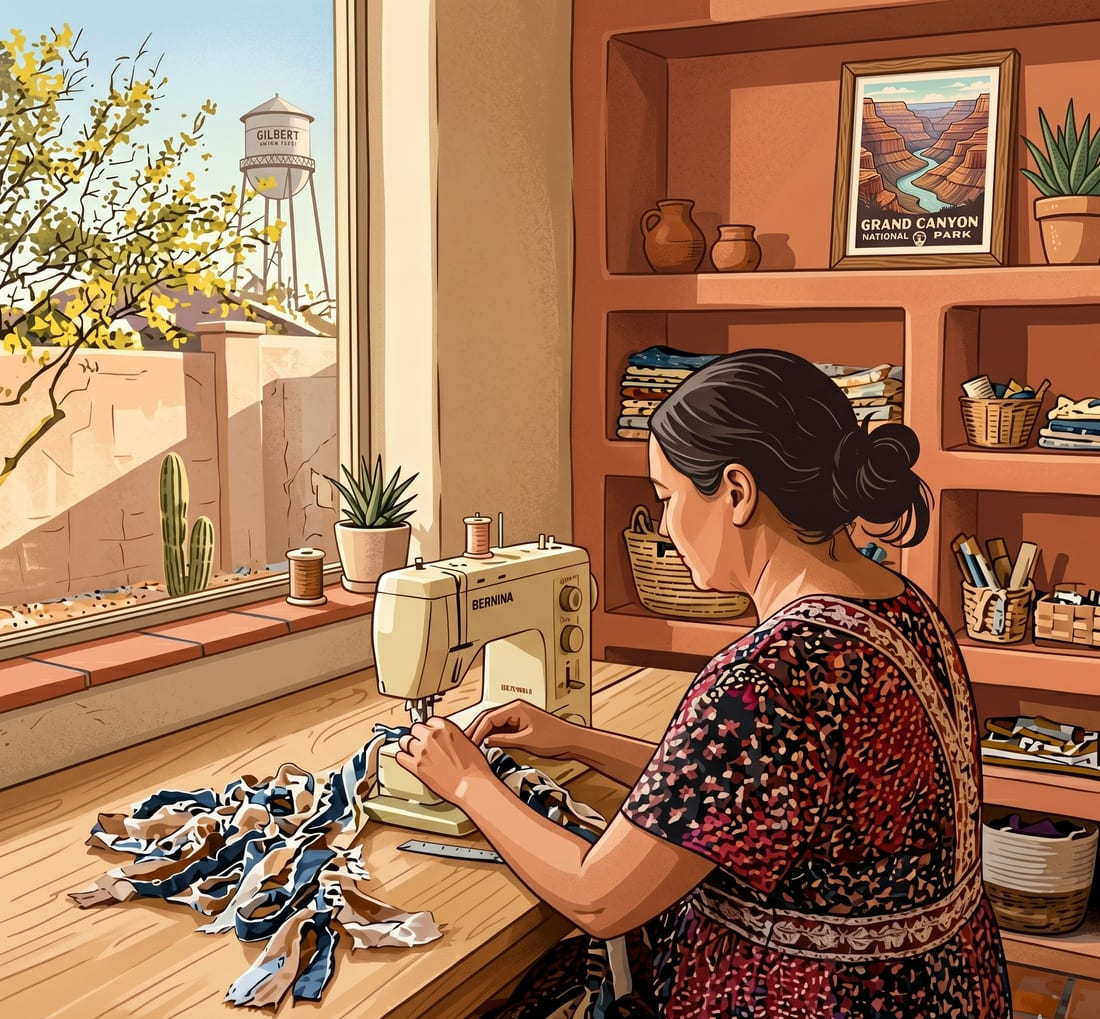
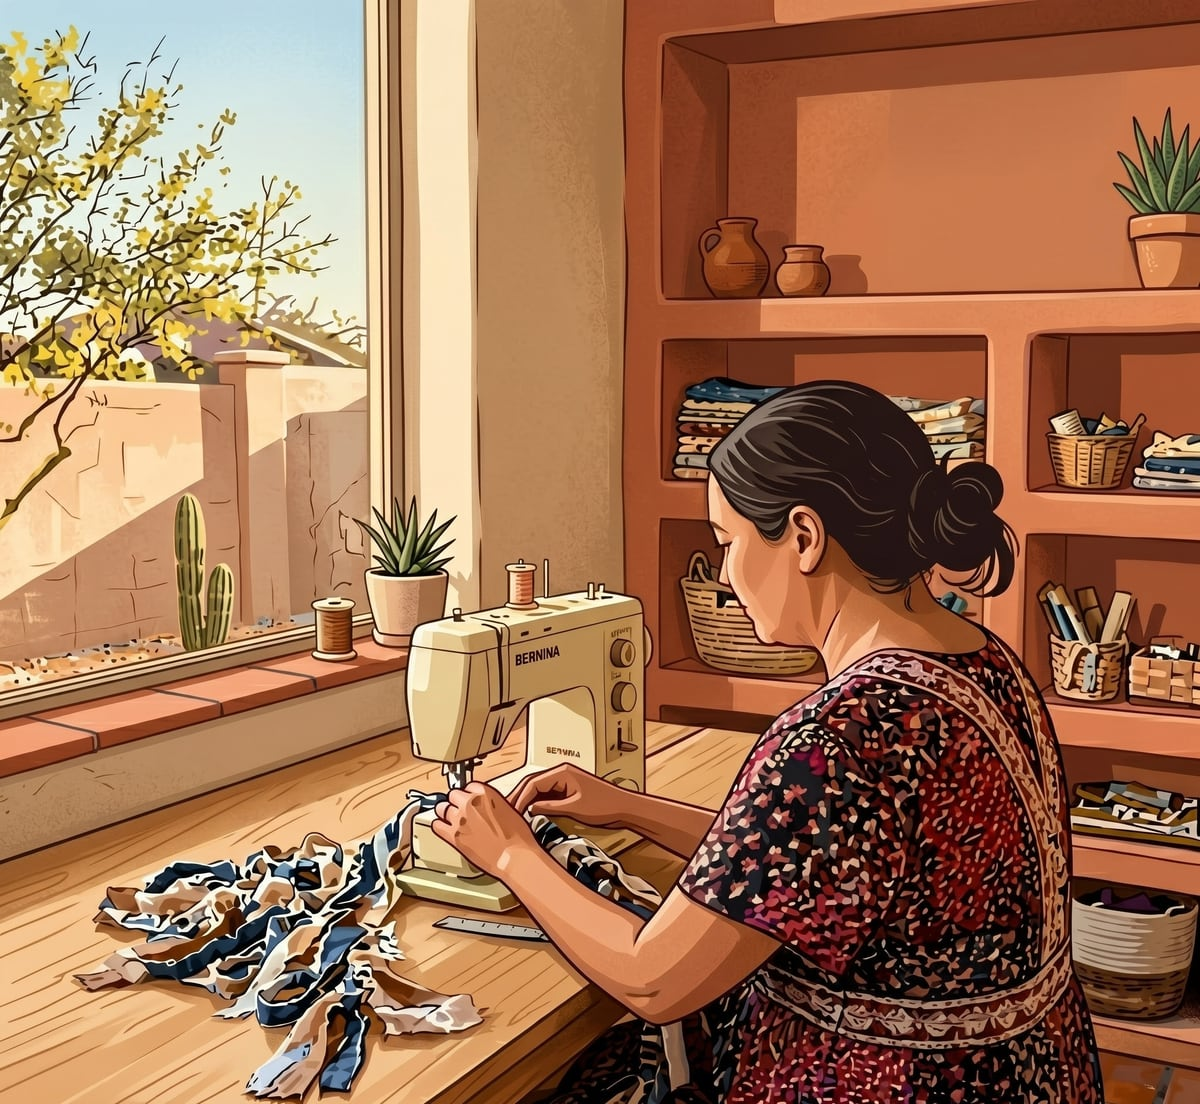
Clean hero overlays, new maker photo, remove em-dashes from site copy
- Hero: remove the badge / "one stitch at a time" card / "Just added" chip
  that covered the new photo; keep the clean framed image
- Maker portrait: replace with new illustration, cropped to remove the
  Gemini watermark (public/maker-portrait.jpg)
- Copy: replace em-dashes with commas across all visitor- and admin-facing
  text (kept null/option-placeholder dashes); reads less AI-generated

diff --git a/src/components/storefront/Storefront.tsx b/src/components/storefront/Storefront.tsx
@@ -151,7 +151,7 @@ export function Storefront({ catalog }: { catalog: Catalog }) {
   ];
 
   const reviews = [
-    { text: "The shabby patriotic piece is sensational and is used on one of our wreaths. We love it — thank you for your patriotism and your artistry.", name: "Sue", item: "Patriotic Shabby Rag Garland", initial: "S", av: "#B0683F" },
+    { text: "The shabby patriotic piece is sensational and is used on one of our wreaths. We love it! Thank you for your patriotism and your artistry.", name: "Sue", item: "Patriotic Shabby Rag Garland", initial: "S", av: "#B0683F" },
     { text: "Love it so much. Looks absolutely perfect on my mantle.", name: "Ashley", item: "Fall Shabby Bow Garland", initial: "A", av: "#7D8B6A" },
     { text: "Love this mini flag banner! Will definitely be ordering more in the future.", name: "Sara", item: "Mini Bunting Banner", initial: "S", av: "#3E5C73" },
   ];
@@ -234,7 +234,7 @@ export function Storefront({ catalog }: { catalog: Catalog }) {
             <span style={{ fontFamily: script, fontSize: "clamp(28px,3.4vw,38px)", color: C.clay, display: "block", transform: "rotate(-2deg)", marginBottom: 6 }}>Handmade with love</span>
             <h1 style={{ fontFamily: serif, fontWeight: 400, fontSize: "clamp(46px,6.4vw,82px)", lineHeight: 1.02, letterSpacing: "-0.02em", margin: "6px 0 0", color: C.ink }}>Seasonal banners,<br />stitched by hand.</h1>
             <div style={{ height: 9, width: "min(340px,80%)", marginTop: 14, backgroundImage: "radial-gradient(circle, #C2453F 1.9px, transparent 2.2px)", backgroundSize: "11px 9px", backgroundRepeat: "repeat-x", backgroundPosition: "left center" }} />
-            <p style={{ fontSize: "clamp(16px,1.5vw,19px)", lineHeight: 1.65, color: C.muted, maxWidth: "42ch", margin: "22px 0 0" }}>Pennant buntings, shabby rag garlands, and tied-bow banners — raw frayed edges and all — made one stitch at a time to bring a little warmth to your mantle.</p>
+            <p style={{ fontSize: "clamp(16px,1.5vw,19px)", lineHeight: 1.65, color: C.muted, maxWidth: "42ch", margin: "22px 0 0" }}>Pennant buntings, shabby rag garlands, and tied-bow banners, raw frayed edges and all, made one stitch at a time to bring a little warmth to your mantle.</p>
             <div style={{ display: "flex", alignItems: "center", gap: 18, flexWrap: "wrap", marginTop: 32 }}>
               <a href="#shop" style={{ textDecoration: "none", background: C.clay, color: C.cream, padding: "16px 32px", borderRadius: 2, fontSize: 15, fontWeight: 600, letterSpacing: "0.02em", boxShadow: "0 8px 22px rgba(176,104,63,0.26)" }}>Shop the Collection</a>
               <a href="#story" style={{ textDecoration: "none", color: C.ink, fontSize: 15, fontWeight: 600, borderBottom: "1.5px solid rgba(110,90,60,0.3)", paddingBottom: 3 }}>Meet the maker &rarr;</a>
@@ -250,23 +250,8 @@ export function Storefront({ catalog }: { catalog: Catalog }) {
           <div style={{ position: "relative", flex: "1.2 1 460px", minWidth: 320 }}>
             <div style={{ position: "relative", aspectRatio: "16/11", overflow: "hidden", borderRadius: 3, boxShadow: "0 34px 66px rgba(60,45,25,0.2), 0 4px 14px rgba(60,45,25,0.08)", background: "#E4D7C2" }}>
               <img src="/hero.jpg" alt="Handmade Halloween rag garland draped across a fireplace mantel" style={{ position: "absolute", inset: 0, width: "100%", height: "100%", objectFit: "cover", objectPosition: "center 52%" }} />
-              <span style={{ position: "absolute", top: 14, left: 14, display: "inline-flex", alignItems: "center", gap: 7, background: "rgba(46,42,36,0.74)", color: C.cream, fontSize: 11.5, fontWeight: 600, letterSpacing: "0.04em", textTransform: "uppercase", padding: "6px 12px", borderRadius: 999, backdropFilter: "blur(4px)" }}><span style={{ color: "#E7A877", fontSize: 13, lineHeight: 1 }}>&#9788;</span> A banner for every season</span>
               <div style={{ position: "absolute", left: 0, right: 0, bottom: -1, height: 13, background: C.cream, pointerEvents: "none", WebkitMask: frayMask, mask: frayMask }} />
             </div>
-            <div style={{ position: "absolute", bottom: -18, left: -18, background: "#FEFCF8", border: `1px solid ${C.line}`, borderRadius: 2, padding: "14px 20px", boxShadow: "0 16px 30px rgba(60,45,25,0.12)", display: "flex", flexDirection: "column", gap: 2 }}>
-              <span style={{ fontFamily: script, fontSize: 24, color: C.clay, lineHeight: 1 }}>one stitch at a time</span>
-              <span style={{ fontSize: 11, letterSpacing: "0.18em", textTransform: "uppercase", color: C.muted3 }}>Cut, knotted &amp; sewn by hand</span>
-            </div>
-            {heroP && (
-              <button onClick={() => openProduct(heroP.id)} style={{ position: "absolute", right: -16, bottom: 44, display: "flex", alignItems: "center", gap: 11, background: "#FEFCF8", border: `1px solid ${C.line}`, borderRadius: 3, padding: "9px 15px 9px 9px", boxShadow: "0 18px 36px rgba(60,45,25,0.22)", cursor: "pointer", textAlign: "left", maxWidth: 236 }}>
-                {heroP.images[0] && <img src={heroP.images[0]} alt={heroP.title} style={{ width: 54, height: 54, objectFit: "cover", borderRadius: 2, flex: "none" }} />}
-                <span style={{ display: "flex", flexDirection: "column", gap: 1, minWidth: 0 }}>
-                  <span style={{ display: "inline-flex", alignItems: "center", gap: 5, fontSize: 10, fontWeight: 700, letterSpacing: "0.1em", textTransform: "uppercase", color: C.clay }}><span style={{ fontSize: 11, lineHeight: 1 }}>&#10022;</span> Just added</span>
-                  <span style={{ fontFamily: serif, fontSize: 15, fontWeight: 500, color: C.ink, lineHeight: 1.15, whiteSpace: "nowrap", overflow: "hidden", textOverflow: "ellipsis" }}>{heroP.title}</span>
-                  <span style={{ fontSize: 12.5, color: C.muted2, fontWeight: 600 }}>{heroP.priceLabel} &rarr;</span>
-                </span>
-              </button>
-            )}
           </div>
         </div>
       </section>

diff --git a/src/app/(site)/about/page.tsx b/src/app/(site)/about/page.tsx
@@ -3,7 +3,7 @@ import { siteConfig } from "@/lib/config";
 
 export const metadata: Metadata = {
   title: "Our Story",
-  description: "How MadeByKreative began — a family, a diagnosis, and a love of handmade craft.",
+  description: "How MadeByKreative began, a family, a diagnosis, and a love of handmade craft.",
 };
 
 export default function AboutPage() {
@@ -16,21 +16,21 @@ export default function AboutPage() {
         <p>
           MadeByKreative started in one of the hardest seasons of our family&apos;s life. When
           someone we love dearly was diagnosed with cancer, I picked up needle and thread and
-          began making fabric masks — a small way to help and to keep my hands busy through the worry.
+          began making fabric masks, a small way to help and to keep my hands busy through the worry.
         </p>
         <p>
           What began as a way to cope grew into something joyful. Friends asked for garlands, then
           banners, then keychains. Five years later, MadeByKreative is a Star Seller on Etsy with
-          over 1,280 sales and a 5.0★ rating across 227 reviews — but at heart it&apos;s still the
+          over 1,280 sales and a 5.0★ rating across 227 reviews, but at heart it&apos;s still the
           same thing: one maker, sewing each piece by hand, packing each order with care.
         </p>
         <p>
-          Every garland and banner is made to order or one of just a few — so when you buy something
+          Every garland and banner is made to order or one of just a few, so when you buy something
           here, you&apos;re getting a genuinely handmade piece, not a factory print. Thank you for
           supporting a small, family-run business. It means the world. 💛
         </p>
         <p className="text-sm text-muted">
-          <em>(Placeholder copy — Kristol, edit this anytime in the admin to tell your story in your own words, and add a photo.)</em>
+          <em>(Placeholder copy, Kristol, edit this anytime in the admin to tell your story in your own words, and add a photo.)</em>
         </p>
       </div>
 

diff --git a/src/app/(site)/policies/page.tsx b/src/app/(site)/policies/page.tsx
@@ -18,15 +18,15 @@ async function getPolicy(key: string, fallback: string) {
 export default async function PoliciesPage() {
   const shipping = await getPolicy(
     "policy_shipping",
-    "Most orders ship within 1–3 business days via USPS. You'll receive tracking by email. (Placeholder — confirm your real turnaround and carrier in admin.)"
+    "Most orders ship within 1–3 business days via USPS. You'll receive tracking by email. (Placeholder, confirm your real turnaround and carrier in admin.)"
   );
   const returns = await getPolicy(
     "policy_returns",
-    "Because items are handmade, please contact me within 7 days of delivery for any issue and I'll make it right with a replacement or refund. (Placeholder — confirm your return policy.)"
+    "Because items are handmade, please contact me within 7 days of delivery for any issue and I'll make it right with a replacement or refund. (Placeholder, confirm your return policy.)"
   );
   const faq = await getPolicy(
     "policy_faq",
-    "Q: Are these really handmade? Yes — every piece is sewn by hand by Kristol.\nQ: Can I request a custom color? Often yes — use the contact page to ask!\n(Placeholder FAQ — edit in admin.)"
+    "Q: Are these really handmade? Yes, every piece is sewn by hand by Kristol.\nQ: Can I request a custom color? Often yes, use the contact page to ask!\n(Placeholder FAQ, edit in admin.)"
   );
 
   return (

diff --git a/src/app/(site)/collections/[slug]/page.tsx b/src/app/(site)/collections/[slug]/page.tsx
@@ -14,7 +14,7 @@ export async function generateMetadata({
   const c = await getCollectionBySlug(slug);
   if (!c) return { title: "Collection not found" };
   return {
-    title: c.seoTitle || `${c.name} — Handmade Decor`,
+    title: c.seoTitle || `${c.name}, Handmade Decor`,
     description: c.seoDescription || c.description || `Handmade ${c.name} fabric decor by MadeByKreative.`,
   };
 }
@@ -34,7 +34,7 @@ export default async function CollectionPage({
       <h1 className="text-3xl font-bold">{collection.name}</h1>
       {collection.description && <p className="mt-2 max-w-prose text-muted">{collection.description}</p>}
       {products.length === 0 ? (
-        <p className="mt-12 text-center text-muted">Nothing in this collection yet — check back soon!</p>
+        <p className="mt-12 text-center text-muted">Nothing in this collection yet, check back soon!</p>
       ) : (
         <div className="mt-8 grid grid-cols-2 gap-4 md:grid-cols-4">
           {products.map((p) => <ProductCard key={p.id} product={p} />)}

diff --git a/src/app/admin/(dash)/products/[id]/page.tsx b/src/app/admin/(dash)/products/[id]/page.tsx
@@ -47,7 +47,7 @@ export default async function EditProduct({ params }: { params: Promise<{ id: st
       {product.etsyListingId && (
         <p className="mt-3 text-sm text-muted">
           🔗 Linked to Etsy listing {product.etsyListingId}. Content (title, photos, description) is
-          mirrored from Etsy on each sync — edit those there. Inventory is two-way.
+          mirrored from Etsy on each sync, edit those there. Inventory is two-way.
         </p>
       )}
 
@@ -55,7 +55,7 @@ export default async function EditProduct({ params }: { params: Promise<{ id: st
       <p className="text-sm text-muted">Every stock movement is recorded here for a full audit trail.</p>
       {product.variants.map((v) => (
         <div key={v.id} className="card mt-3 p-4">
-          <p className="font-semibold">{v.name} — {v.quantity} in stock · {formatPrice(v.priceCents)}</p>
+          <p className="font-semibold">{v.name}, {v.quantity} in stock · {formatPrice(v.priceCents)}</p>
           <table className="mt-2 w-full text-sm">
             <thead><tr className="text-left text-muted"><th className="py-1">When</th><th>Change</th><th>Reason</th><th>Channel</th><th>Note</th></tr></thead>
             <tbody>

diff --git a/src/app/api/checkout/route.ts b/src/app/api/checkout/route.ts
@@ -51,7 +51,7 @@ export async function POST(req: NextRequest) {
       );
       if (!jit.ok) {
         return NextResponse.json(
-          { error: `"${v.product.title}" just sold out. We've updated the listing — sorry!` },
+          { error: `"${v.product.title}" just sold out. We've updated the listing, sorry!` },
           { status: 409 }
         );
       }
@@ -121,7 +121,7 @@ export async function POST(req: NextRequest) {
           currency: "usd",
           unit_amount: v.priceCents,
           product_data: {
-            name: `${v.product.title}${v.name !== "Default" ? ` — ${v.name}` : ""}`,
+            name: `${v.product.title}${v.name !== "Default" ? `, ${v.name}` : ""}`,
           },
         },
       };

diff --git a/src/app/layout.tsx b/src/app/layout.tsx
@@ -7,7 +7,7 @@ import { Analytics } from "@/components/Analytics";
 export const metadata: Metadata = {
   metadataBase: new URL(siteConfig.url),
   title: {
-    default: `${siteConfig.name} — Handmade Fabric Garlands, Banners & Keychains`,
+    default: `${siteConfig.name}, Handmade Fabric Garlands, Banners & Keychains`,
     template: `%s · ${siteConfig.name}`,
   },
   description: siteConfig.description,
@@ -26,7 +26,7 @@ export const metadata: Metadata = {
     type: "website",
     siteName: siteConfig.name,
     url: siteConfig.url,
-    title: `${siteConfig.name} — Handmade with love in ${siteConfig.location}`,
+    title: `${siteConfig.name}, Handmade with love in ${siteConfig.location}`,
     description: siteConfig.description,
   },
   twitter: { card: "summary_large_image" },

diff --git a/src/lib/email.ts b/src/lib/email.ts
@@ -30,7 +30,7 @@ export async function sendOrderConfirmation(opts: {
   const html = `
   <div style="font-family:Georgia,serif;max-width:560px;margin:auto;color:#3A352F">
     <h1 style="color:#B85C38">Thank you for your order! 💛</h1>
-    <p>Hi there — your handmade goods from ${siteConfig.name} are confirmed.
+    <p>Hi there, your handmade goods from ${siteConfig.name} are confirmed.
        Each piece is made and packed with love by ${siteConfig.maker}.</p>
     <table style="width:100%;border-collapse:collapse;margin:16px 0">${rows}
       <tr><td style="padding-top:12px;border-top:1px solid #eee"><strong>Total</strong></td>
@@ -52,7 +52,7 @@ export async function sendOversellAlert(opts: {
   if (!to) return;
   const html = `
   <div style="font-family:sans-serif;color:#3A352F">
-    <h2 style="color:#B85C38">⚠️ Possible oversell — action needed</h2>
+    <h2 style="color:#B85C38">⚠️ Possible oversell, action needed</h2>
     <p>An order may have sold an item that was already gone (likely sold on Etsy too).</p>
     <p><strong>Order:</strong> ${opts.orderId}</p>
     <p>${opts.detail}</p>

diff --git a/src/app/(site)/checkout/cancelled/page.tsx b/src/app/(site)/checkout/cancelled/page.tsx
@@ -4,7 +4,7 @@ export default function CancelledPage() {
   return (
     <div className="container-page py-20 text-center">
       <h1 className="text-3xl font-bold">Checkout cancelled</h1>
-      <p className="mt-3 text-muted">No worries — your cart is still saved.</p>
+      <p className="mt-3 text-muted">No worries, your cart is still saved.</p>
       <Link href="/cart" className="btn-primary mt-8">Return to cart</Link>
     </div>
   );

diff --git a/src/app/(site)/collections/page.tsx b/src/app/(site)/collections/page.tsx
@@ -6,7 +6,7 @@ export const dynamic = "force-dynamic";
 
 export const metadata: Metadata = {
   title: "Collections",
-  description: "Shop handmade decor by season and holiday — Halloween, Fall, Christmas, Valentine's and more.",
+  description: "Shop handmade decor by season and holiday, Halloween, Fall, Christmas, Valentine's and more.",
 };
 
 export default async function CollectionsPage() {

diff --git a/src/app/(site)/products/[slug]/page.tsx b/src/app/(site)/products/[slug]/page.tsx
@@ -135,7 +135,7 @@ export default async function ProductPage({
 
           {product.isSeed && (
             <p className="mt-6 rounded-soft bg-terracotta/10 p-3 text-sm text-terracotta">
-              ⚠️ Sample data — replace with your real listing or connect Etsy to import.
+              ⚠️ Sample data, replace with your real listing or connect Etsy to import.
             </p>
           )}
         </div>

diff --git a/src/app/admin/(dash)/orders/page.tsx b/src/app/admin/(dash)/orders/page.tsx
@@ -37,7 +37,7 @@ export default async function AdminOrders() {
                   <li key={i.id}>{i.quantity} × {i.productTitle} ({i.variantName})</li>
                 ))}
               </ul>
-              {o.oversellFlag && <p className="mt-2 text-sm font-semibold text-red-600">⚠️ Possible oversell — review & refund if needed.</p>}
+              {o.oversellFlag && <p className="mt-2 text-sm font-semibold text-red-600">⚠️ Possible oversell, review & refund if needed.</p>}
               {o.shippingAddress && (
                 <p className="mt-2 text-xs text-muted">Ship to: {o.shippingAddress}</p>
               )}